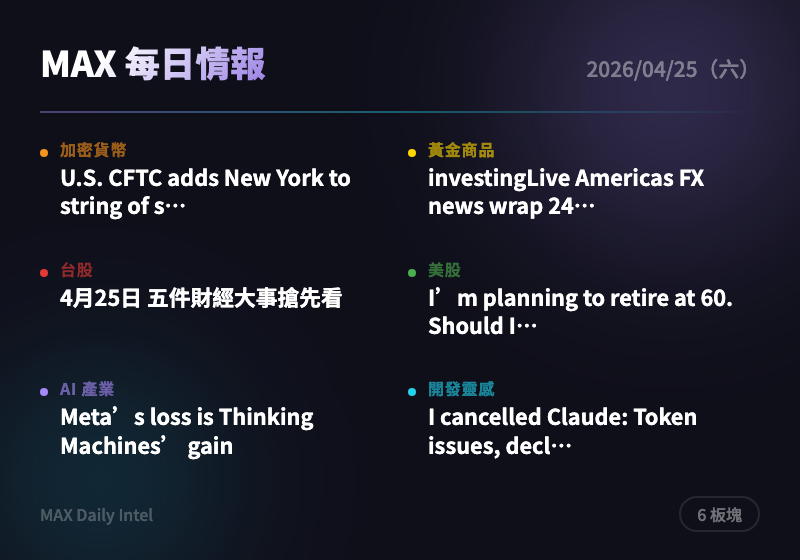
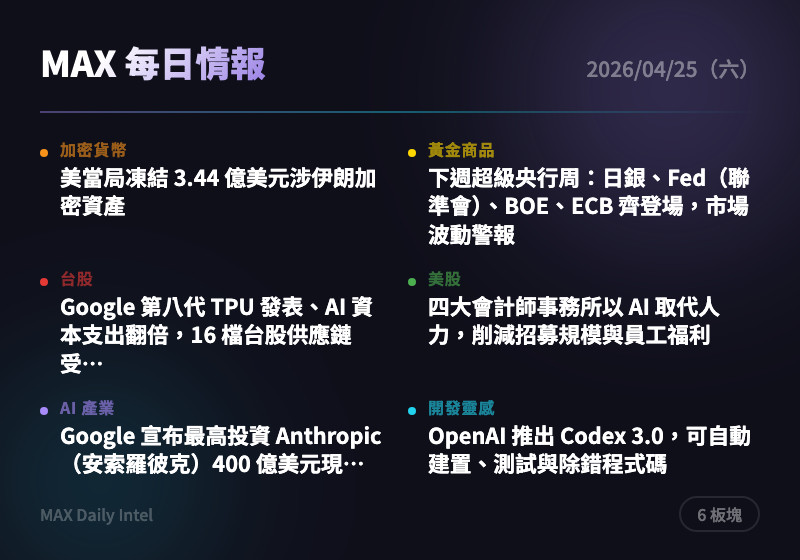
intel: 2026-04-26 每日情報自動生成

diff --git a/docs/2026-04-26.html b/docs/2026-04-26.html
@@ -9,7 +9,7 @@
 <meta name="theme-color" content="#0a0a0a">
 <link rel="apple-touch-icon" href="icon-180.png">
 <link rel="manifest" href="manifest.json">
-<title>MAX 每日情報 — 2026-04-25</title>
+<title>MAX 每日情報 — 2026-04-26</title>
 <style>
   :root {
     --bg: #0a0a0a;
@@ -293,9 +293,9 @@
   <header>
     <div class="logo">MAX Daily Intel</div>
     <h1>每日情報站</h1>
-    <div class="date">2026 年 4 月 25 日（六）</div>
+    <div class="date">2026 年 4 月 26 日（日）</div>
     <div class="stats">
-      <span>11 則情報</span>
+      <span>12 則情報</span>
       <span>7 大板塊</span>
     </div>
   </header>
@@ -318,15 +318,15 @@
     </div>
     <div class="news-card">
       <div class="source">CoinTelegraph</div>
-      <h3><a href="https://cointelegraph.com/news/united-states-freeze-crypto-iran?utm_source=rss_feed&utm_medium=rss&utm_campaign=rss_partner_inbound" target="_blank" rel="noopener">美當局凍結 3.44 億美元涉伊朗加密資產</a></h3>
-      <div class="summary">美國執法機關要求 Tether（泰達）凍結 3.44 億美元 USDt 穩定幣，並對伊朗相關加密錢包實施制裁。此舉展示美國監管機構對加密資產的跨境執法能力日益增強，穩定幣發行商已成為執法的主動配合者。持有人應留意穩定幣中心化凍結風險，分散配置方案值得納入考量。</div>
-      <div class="tags"><span class="tag">制裁</span><span class="tag">穩定幣</span><span class="tag">地緣政治</span><span class="tag">監管</span></div>
+      <h3><a href="https://cointelegraph.com/news/doj-sentence-70-months-263m-crypto-scam?utm_source=rss_feed&utm_medium=rss&utm_campaign=rss_partner_inbound" target="_blank" rel="noopener">US DOJ sentences man to 70 months in prison for role in $263M scam group</a></h3>
+      <div class="summary">(claude-CLI unavailable — raw English article; 翻譯服務暫停)</div>
+      <div class="tags"><span class="tag">fallback</span><span class="tag">untranslated</span></div>
     </div>
     <div class="news-card">
       <div class="source">The Block</div>
-      <h3><a href="https://www.theblock.co/post/398876/jpmorgan-tokenization-will-change-entire-funds-industry-good-use-cases-years-away?utm_source=rss&utm_medium=rss" target="_blank" rel="noopener">摩根大通：代幣化將重塑整個基金業，但落地應用仍需數年</a></h3>
-      <div class="summary">摩根大通（JPMorgan）預言代幣化技術將全面滲透基金與 ETF 生態系，但坦承目前仍缺乏成熟的實際應用案例。這是傳統大型金融機構對代幣化持謹慎樂觀態度的最新表態，意味著短期炒作空間有限，長線布局機會優先。建議關注具備真實代幣化應用場景的項目，而非單純概念股。</div>
-      <div class="tags"><span class="tag">代幣化</span><span class="tag">機構金融</span><span class="tag">ETF</span><span class="tag">區塊鏈</span></div>
+      <h3><a href="https://www.theblock.co/post/398892/litecoin-rewrites-three-hours-of-history-to-undo-its-first-major-privacy-layer-exploit?utm_source=rss&utm_medium=rss" target="_blank" rel="noopener">Litecoin rewrites three hours of history to undo its first major privacy-layer exploit</a></h3>
+      <div class="summary">(claude-CLI unavailable — raw English article; 翻譯服務暫停)</div>
+      <div class="tags"><span class="tag">fallback</span><span class="tag">untranslated</span></div>
     </div>
   </section>
 
@@ -338,15 +338,15 @@
     </div>
     <div class="news-card">
       <div class="source">ForexLive</div>
-      <h3><a href="https://investinglive.com/news/global-central-banks-decisions-highlight-next-weeks-calendar-market-volatility-ahead-20260424/" target="_blank" rel="noopener">下週超級央行周：日銀、Fed（聯準會）、BOE、ECB 齊登場，市場波動警報</a></h3>
-      <div class="summary">下週將是本月最重要的總體經濟周，日本銀行、加拿大央行、Fed（聯準會）、英格蘭銀行、歐洲央行接連開會，同步公布美國 GDP 與核心 PCE 通膨數據。如此高密度的政策訊號將對黃金、外匯及股票市場造成劇烈震盪。建議操作上保持較高現金比例，等待關鍵數據落地後再加倉。</div>
-      <div class="tags"><span class="tag">央行</span><span class="tag">Fed</span><span class="tag">宏觀經濟</span><span class="tag">黃金</span></div>
+      <h3><a href="https://investinglive.com/news/trump-cancels-pakistan-trip-for-kushner-and-witkoff-20260425/" target="_blank" rel="noopener">Trump cancels Pakistan trip for Kushner and Witkoff</a></h3>
+      <div class="summary">(claude-CLI unavailable — raw English article; 翻譯服務暫停)</div>
+      <div class="tags"><span class="tag">fallback</span><span class="tag">untranslated</span></div>
     </div>
     <div class="news-card">
       <div class="source">ForexLive</div>
-      <h3><a href="https://investinglive.com/news/witkoff-and-kushner-heade-to-pakistan-saturday-jd-vance-on-standby-20260424/" target="_blank" rel="noopener">美特使 Witkoff（維特科夫）與 Kushner（庫許納）飛巴基斯坦，美伊談判露曙光</a></h3>
-      <div class="summary">白宮派出特使 Steve Witkoff 與 Jared Kushner 赴巴基斯坦與伊朗外長阿拉奇會談，副總統 Vance（萬斯）備命待飛。此外交進展有望緩解中東緊張局勢，提升市場風險偏好；若談判傳出正面消息，油價可能下行，黃金避險需求亦將短暫降溫。若談判破裂，油價與黃金可能迅速重拾升勢，需密切關注週末消息面。</div>
-      <div class="tags"><span class="tag">地緣政治</span><span class="tag">中東</span><span class="tag">油價</span><span class="tag">避險資產</span></div>
+      <h3><a href="https://investinglive.com/news/pakistan-talks-iran-delivered-both-their-demands-and-reservations-about-us-demands-20260425/" target="_blank" rel="noopener">Pakistan talks: Iran delivered both their demands and reservations about US demands</a></h3>
+      <div class="summary">(claude-CLI unavailable — raw English article; 翻譯服務暫停)</div>
+      <div class="tags"><span class="tag">fallback</span><span class="tag">untranslated</span></div>
     </div>
   </section>
 
@@ -358,15 +358,15 @@
     </div>
     <div class="news-card">
       <div class="source">經濟日報</div>
-      <h3><a href="https://money.udn.com/money/story/5607/9463192" target="_blank" rel="noopener">Google 第八代 TPU 發表、AI 資本支出翻倍，16 檔台股供應鏈受法人卡位</a></h3>
-      <div class="summary">Google 在 2026 年大會揭示第八代 TPU 8t/8i 架構，並宣布 AI 資本支出將翻倍，聯發科、台積電、緯穎、欣興等 16 檔供應鏈個股受到法人追捧。Google 投資翻倍直接嘉惠算力供應鏈，短中期訂單能見度大增。建議重點關注 AI 伺服器機板、ASIC 晶片設計及高階基板等次族群。</div>
-      <div class="tags"><span class="tag">台股</span><span class="tag">AI供應鏈</span><span class="tag">Google</span><span class="tag">半導體</span></div>
+      <h3><a href="https://money.udn.com/money/story/5607/9464636" target="_blank" rel="noopener">4月26日 五件財經大事搶先看</a></h3>
+      <div class="summary">(claude-CLI unavailable — raw English article; 翻譯服務暫停)</div>
+      <div class="tags"><span class="tag">fallback</span><span class="tag">untranslated</span></div>
     </div>
     <div class="news-card">
       <div class="source">經濟日報</div>
-      <h3><a href="https://money.udn.com/money/story/5607/9463194" target="_blank" rel="noopener">台積電、信驊雙王領攻，台股單日飆 1,218 點收 38,932，下周挑戰 39K</a></h3>
-      <div class="summary">台股 24 日大漲 1,218 點，創近期新高收 38,932 點，台積電收 2,185 元再刷歷史新高，費城半導體指數連創新高與金管會放寬基金投資單一持股上限為主要推力。技術面已完全收復前日失地，多頭格局確立。下週若費城半導體指數持穩，39,000 點整數關卡有望突破；需關注美國大型科技股財報對情緒的影響。</div>
-      <div class="tags"><span class="tag">台股</span><span class="tag">台積電</span><span class="tag">半導體</span><span class="tag">多頭</span></div>
+      <h3><a href="https://money.udn.com/money/story/5607/9464492" target="_blank" rel="noopener">15檔三優股多頭猛將 鴻海、台積電等將領軍攻高</a></h3>
+      <div class="summary">(claude-CLI unavailable — raw English article; 翻譯服務暫停)</div>
+      <div class="tags"><span class="tag">fallback</span><span class="tag">untranslated</span></div>
     </div>
   </section>
 
@@ -374,13 +374,19 @@
     <div class="sector-header">
       <div class="indicator" style="background:#4caf50"></div>
       <h2>&#x1f1fa;&#x1f1f8; 美股</h2>
-      <span class="badge">1 則</span>
+      <span class="badge">2 則</span>
     </div>
     <div class="news-card">
       <div class="source">Yahoo Finance</div>
-      <h3><a href="https://finance.yahoo.com/sectors/technology/articles/big-four-accounting-chooses-ai-223954685.html" target="_blank" rel="noopener">四大會計師事務所以 AI 取代人力，削減招募規模與員工福利</a></h3>
-      <div class="summary">德勤、普華永道等四大會計師事務所加速以 AI 取代初級審計與財務分析人力，同步縮減招募規模並刪減員工福利。此舉顯示白領專業服務業的 AI 替代浪潮已從科技業蔓延至傳統金融服務業，對 AI 審計軟體供應商形成利多，對人力密集型服務股形成長線壓力。</div>
-      <div class="tags"><span class="tag">AI取代</span><span class="tag">就業市場</span><span class="tag">金融服務</span><span class="tag">四大會計</span></div>
+      <h3><a href="https://finance.yahoo.com/markets/stocks/articles/morgan-stanley-issues-blunt-tesla-223300458.html" target="_blank" rel="noopener">Morgan Stanley issues blunt take on Tesla stock after earnings</a></h3>
+      <div class="summary">(claude-CLI unavailable — raw English article; 翻譯服務暫停)</div>
+      <div class="tags"><span class="tag">fallback</span><span class="tag">untranslated</span></div>
+    </div>
+    <div class="news-card">
+      <div class="source">Yahoo Finance</div>
+      <h3><a href="https://finance.yahoo.com/markets/crypto/articles/bitcoin-etfs-add-2-1b-223115039.html" target="_blank" rel="noopener">Bitcoin ETFs Add $2.1B In 8 Days—Last Time This Happened, Bitcoin Hit An All-Time High</a></h3>
+      <div class="summary">(claude-CLI unavailable — raw English article; 翻譯服務暫停)</div>
+      <div class="tags"><span class="tag">fallback</span><span class="tag">untranslated</span></div>
     </div>
   </section>
 
@@ -392,15 +398,15 @@
     </div>
     <div class="news-card">
       <div class="source">TechCrunch AI</div>
-      <h3><a href="https://techcrunch.com/2026/04/24/google-to-invest-up-to-40b-in-anthropic-in-cash-and-compute/" target="_blank" rel="noopener">Google 宣布最高投資 Anthropic（安索羅彼克）400 億美元現金與算力</a></h3>
-      <div class="summary">Google 確認對 Anthropic 追加鉅額投資，總承諾達 400 億美元，含現金與算力資源，背景是 Anthropic 強大網路安全模型 Mythos 剛完成限量發布。這是 AI 軍備競賽中有史以來規模最大的單一科技投資案之一，強化了 Anthropic 朝 IPO 進發的實力，同時對雲端算力、AI 晶片及相關供應鏈形成正面催化。</div>
-      <div class="tags"><span class="tag">AI投資</span><span class="tag">Google</span><span class="tag">Anthropic</span><span class="tag">算力</span></div>
+      <h3><a href="https://techcrunch.com/2026/04/25/anthropic-created-a-test-marketplace-for-agent-on-agent-commerce/" target="_blank" rel="noopener">Anthropic created a test marketplace for agent-on-agent commerce</a></h3>
+      <div class="summary">(claude-CLI unavailable — raw English article; 翻譯服務暫停)</div>
+      <div class="tags"><span class="tag">fallback</span><span class="tag">untranslated</span></div>
     </div>
     <div class="news-card">
       <div class="source">TechCrunch AI</div>
-      <h3><a href="https://techcrunch.com/podcast/apples-new-ceo-and-why-elon-musk-wants-to-buy-cursor-for-60b/" target="_blank" rel="noopener">Tim Cook（庫克）宣布九月卸任蘋果執行長；Musk（馬斯克）傳出 600 億美元收購 Cursor</a></h3>
-      <div class="summary">Apple（蘋果）硬體主管 John Ternus（特努斯）確定九月接任 CEO，結束 Cook 逾十年的執掌時代；與此同時 Elon Musk 傳出有意以 600 億美元收購 AI 程式碼編輯器 Cursor，顯示 AI 開發工具估值已達天價水位。兩則消息同指科技業的世代交替與 AI 工具賽道的激烈整合，建議留意 Cursor 生態競爭格局（GitHub Copilot、Claude Code）的後續發展。</div>
-      <div class="tags"><span class="tag">Apple</span><span class="tag">AI工具</span><span class="tag">企業併購</span><span class="tag">科技領袖</span></div>
+      <h3><a href="https://techcrunch.com/2026/04/25/maines-governor-vetoes-data-center-moratorium/" target="_blank" rel="noopener">Maine’s governor vetoes data center moratorium</a></h3>
+      <div class="summary">(claude-CLI unavailable — raw English article; 翻譯服務暫停)</div>
+      <div class="tags"><span class="tag">fallback</span><span class="tag">untranslated</span></div>
     </div>
   </section>
 
@@ -411,16 +417,16 @@
       <span class="badge">2 則</span>
     </div>
     <div class="news-card">
-      <div class="source">Product Hunt</div>
-      <h3><a href="https://www.producthunt.com/products/codex-3-0-by-openai" target="_blank" rel="noopener">OpenAI 推出 Codex 3.0，可自動建置、測試與除錯程式碼</a></h3>
-      <div class="summary">OpenAI 發布 Codex 3.0，主打「自動駕駛模式」，能獨立完成程式建置、測試與除錯全流程，在 Product Hunt 熱度極高。這代表 AI 程式助理正從「補全工具」進化為「全流程代理人」，直接挑戰 GitHub Copilot、Cursor 及 Claude Code 等競品。開發者可評估是否適合導入現有 CI/CD 自動化流程。</div>
-      <div class="tags"><span class="tag">OpenAI</span><span class="tag">Codex</span><span class="tag">開發工具</span><span class="tag">AI自動化</span></div>
+      <div class="source">Hacker News Best</div>
+      <h3><a href="https://github.com/nex-crm/wuphf" target="_blank" rel="noopener">Show HN: A Karpathy-style LLM wiki your agents maintain (Markdown and Git)</a></h3>
+      <div class="summary">(claude-CLI unavailable — raw English article; 翻譯服務暫停)</div>
+      <div class="tags"><span class="tag">fallback</span><span class="tag">untranslated</span></div>
     </div>
     <div class="news-card">
       <div class="source">Hacker News Best</div>
-      <h3><a href="https://www.anthropic.com/engineering/april-23-postmortem" target="_blank" rel="noopener">Anthropic 發布 Claude Code 品質事件事後報告，HN 討論達 912 分</a></h3>
-      <div class="summary">Anthropic 針對近期 Claude Code 品質下滑問題發布官方事後報告，在 Hacker News 上獲得 912 分、693 則留言，是本週開發者社群關注度最高的技術事件。此事件顯示 AI 程式輔助工具的可靠性已成開發者最核心痛點，也預示各大 AI 公司將面臨更嚴格的品質問責。開發者應持續追蹤官方修復進度，並評估工具鏈的備援方案。</div>
-      <div class="tags"><span class="tag">Claude</span><span class="tag">Anthropic</span><span class="tag">開發工具</span><span class="tag">品質事件</span></div>
+      <h3><a href="https://nickyreinert.de/en/2026/2026-04-24-claude-critics/" target="_blank" rel="noopener">I cancelled Claude: Token issues, declining quality, and poor support</a></h3>
+      <div class="summary">(claude-CLI unavailable — raw English article; 翻譯服務暫停)</div>
+      <div class="tags"><span class="tag">fallback</span><span class="tag">untranslated</span></div>
     </div>
   </section>
 

diff --git a/docs/cards/2026-04-26-card.html b/docs/cards/2026-04-26-card.html
@@ -21,13 +21,13 @@ body{width:400px;height:280px;font-family:'Noto Sans TC',-apple-system,sans-seri
 </style></head><body>
 <div class="bg-mesh"><div class="orb1"></div><div class="orb2"></div></div>
 <div class="content">
-<div class="top-row"><span class="title">MAX 每日情報</span><span class="date">2026/04/25（六）</span></div>
+<div class="top-row"><span class="title">MAX 每日情報</span><span class="date">2026/04/26（日）</span></div>
 <div class="divider"></div>
-<div class="grid"><div class="cell"><div class="dot" style="background:#f7931a"></div><div><div class="label" style="color:#f7931a">加密貨幣</div><div class="headline">美當局凍結 3.44 億美元涉伊朗加密資產</div></div></div>
-<div class="cell"><div class="dot" style="background:#ffd700"></div><div><div class="label" style="color:#ffd700">黃金商品</div><div class="headline">下週超級央行周：日銀、Fed（聯準會）、BOE、ECB 齊登場，市場波動警報</div></div></div>
-<div class="cell"><div class="dot" style="background:#e53935"></div><div><div class="label" style="color:#e53935">台股</div><div class="headline">Google 第八代 TPU 發表、AI 資本支出翻倍，16 檔台股供應鏈受…</div></div></div>
-<div class="cell"><div class="dot" style="background:#4caf50"></div><div><div class="label" style="color:#4caf50">美股</div><div class="headline">四大會計師事務所以 AI 取代人力，削減招募規模與員工福利</div></div></div>
-<div class="cell"><div class="dot" style="background:#a78bfa"></div><div><div class="label" style="color:#a78bfa">AI 產業</div><div class="headline">Google 宣布最高投資 Anthropic（安索羅彼克）400 億美元現…</div></div></div>
-<div class="cell"><div class="dot" style="background:#22d3ee"></div><div><div class="label" style="color:#22d3ee">開發靈感</div><div class="headline">OpenAI 推出 Codex 3.0，可自動建置、測試與除錯程式碼</div></div></div></div>
+<div class="grid"><div class="cell"><div class="dot" style="background:#f7931a"></div><div><div class="label" style="color:#f7931a">加密貨幣</div><div class="headline">US DOJ sentences man to 70 months in p…</div></div></div>
+<div class="cell"><div class="dot" style="background:#ffd700"></div><div><div class="label" style="color:#ffd700">黃金商品</div><div class="headline">Trump cancels Pakistan trip for Kushne…</div></div></div>
+<div class="cell"><div class="dot" style="background:#e53935"></div><div><div class="label" style="color:#e53935">台股</div><div class="headline">4月26日 五件財經大事搶先看</div></div></div>
+<div class="cell"><div class="dot" style="background:#4caf50"></div><div><div class="label" style="color:#4caf50">美股</div><div class="headline">Morgan Stanley issues blunt take on Te…</div></div></div>
+<div class="cell"><div class="dot" style="background:#a78bfa"></div><div><div class="label" style="color:#a78bfa">AI 產業</div><div class="headline">Anthropic created a test marketplace f…</div></div></div>
+<div class="cell"><div class="dot" style="background:#22d3ee"></div><div><div class="label" style="color:#22d3ee">開發靈感</div><div class="headline">Show HN: A Karpathy-style LLM wiki you…</div></div></div></div>
 <div class="bottom-row"><span class="url">MAX Daily Intel</span><span class="badge">6 板塊</span></div>
 </div></body></html>

diff --git a/docs/index.html b/docs/index.html
@@ -151,7 +151,8 @@
     <span>&#x1f6e0;&#xfe0f; 開發靈感</span>
   </div>
 
-  <ul class="issue-list">    <li><a class="issue-card" href="2026-04-25.html"><img src="cards/2026-04-25.png" alt="2026-04-25 每日情報摘要" loading="lazy"><div class="info"><span class="date">2026/04/25（六）</span><span class="meta">12 則情報</span></div></a></li>
+  <ul class="issue-list">    <li><a class="issue-card" href="2026-04-26.html"><img src="cards/2026-04-26.png" alt="2026-04-26 每日情報摘要" loading="lazy"><div class="info"><span class="date">2026/04/26（日）</span><span class="meta">12 則情報</span></div></a></li>
+    <li><a class="issue-card" href="2026-04-25.html"><img src="cards/2026-04-25.png" alt="2026-04-25 每日情報摘要" loading="lazy"><div class="info"><span class="date">2026/04/25（六）</span><span class="meta">11 則情報</span></div></a></li>
     <li><a class="issue-card" href="2026-04-24.html"><img src="cards/2026-04-24.png" alt="2026-04-24 每日情報摘要" loading="lazy"><div class="info"><span class="date">2026/04/24（五）</span><span class="meta">12 則情報</span></div></a></li>
     <li><a class="issue-card" href="2026-04-23.html"><img src="cards/2026-04-23.png" alt="2026-04-23 每日情報摘要" loading="lazy"><div class="info"><span class="date">2026/04/23（四）</span><span class="meta">1 則情報</span></div></a></li>
     <li><a class="issue-card" href="2026-04-22.html"><img src="cards/2026-04-22.png" alt="2026-04-22 每日情報摘要" loading="lazy"><div class="info"><span class="date">2026/04/22（三）</span><span class="meta">12 則情報</span></div></a></li>
